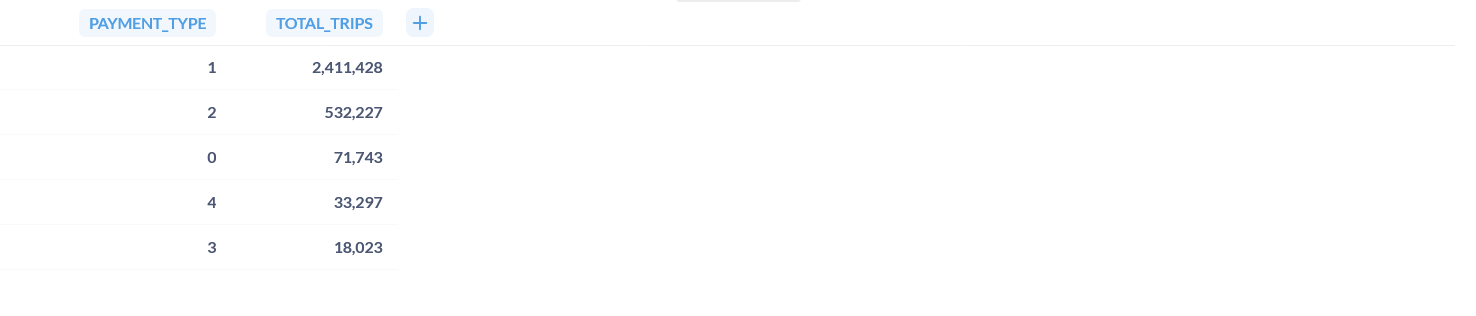
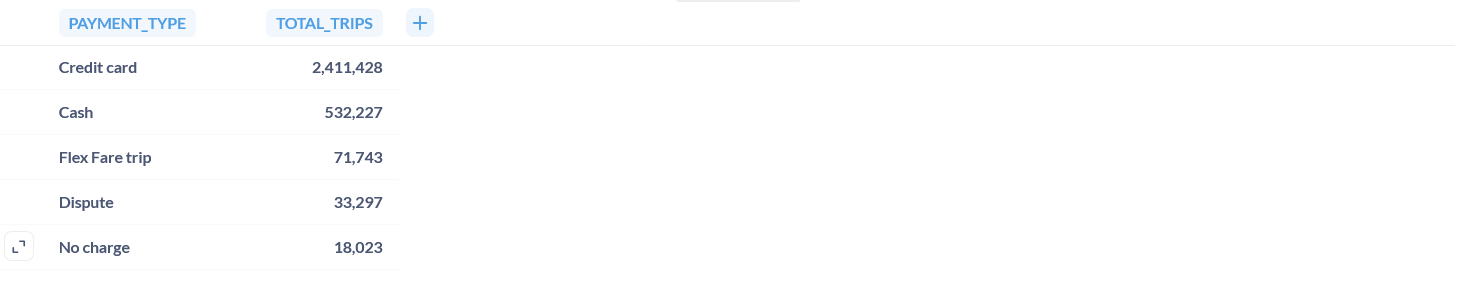
screenshots update

diff --git a/README.md b/README.md
@@ -152,11 +152,19 @@ Shows the distribution of taxi trips by payment method, highlighting customer pa
 - **SQL query:**
 ```sql
 SELECT
-	payment_type,
+	CASE payment_type
+		WHEN 0 THEN 'Flex Fare trip'
+		WHEN 1 THEN 'Credit card'
+		WHEN 2 THEN 'Cash'
+		WHEN 3 THEN 'No charge'
+		WHEN 4 THEN 'Dispute'
+		WHEN 5 THEN 'Unknown'
+		WHEN 6 THEN 'Voided trip'
+	END as payment_type,
 	COUNT(*) AS total_trips
 FROM TB__AJATBM__NYC_TAXI_TRIP_RECORDS_INGESTION
 WHERE tpep_pickup_datetime >= '2023-01-01'
-	AND tpep_pickup_datetime < '2023-02-01'
+	AND tpep_pickup_datetime <  '2023-02-01'
 GROUP BY payment_type
 ORDER BY total_trips DESC;
 ```
@@ -219,11 +227,17 @@ Compares the total revenue generated by each taxi vendor during the selected per
 - **SQL query:**
 ```sql
 SELECT
-	VendorID,
+	CASE VendorID
+        WHEN 1 THEN 'Creative Mobile Technologies'
+        WHEN 2 THEN 'Curb Mobility'
+        WHEN 3 THEN 'Myle Technologies'
+        WHEN 4 THEN 'Helix'
+        ELSE 'Other'
+    END AS VendorID,
 	SUM(total_amount) AS total_revenue
 FROM TB__AJATBM__NYC_TAXI_TRIP_RECORDS_INGESTION
 WHERE tpep_pickup_datetime >= '2023-01-01'
-	AND tpep_pickup_datetime < '2023-02-01'
+	AND tpep_pickup_datetime <  '2023-02-01'
 GROUP BY VendorID
 ORDER BY total_revenue DESC;
 ```
